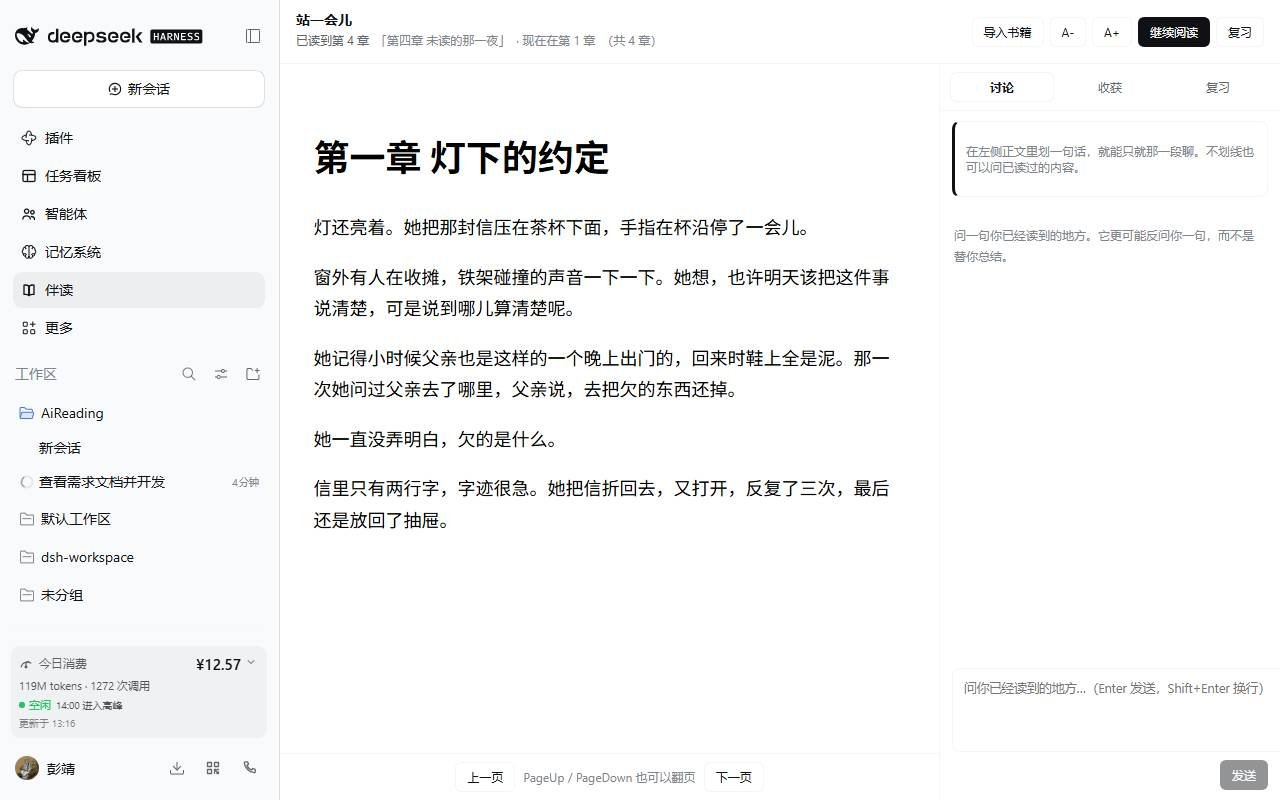
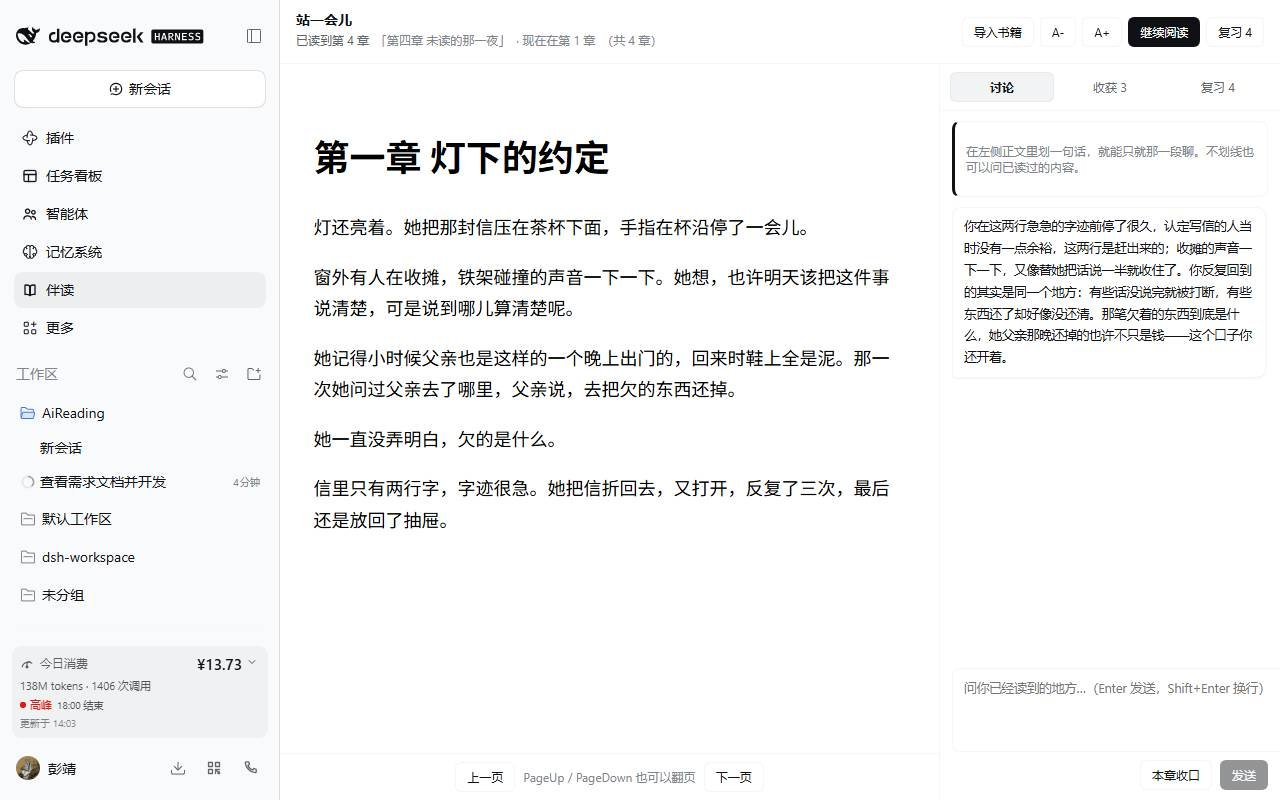
feat: ask without a selection falls back to the reader's chapter

diff --git a/src/host/routes.js b/src/host/routes.js
@@ -293,20 +293,25 @@ export function registerRoutes(deps) {
           sectionIndex: typeof body?.sectionIndex === 'number' ? body.sectionIndex : null,
           quote: typeof body?.quote === 'string' ? body.quote : null,
         }
+        // No selection (just "ask about where I am") is a normal case: the UI says
+        // 不划线也可以问已读过的内容. Center the window on the reader's current chapter
+        // instead of on nothing — an empty target would fail closed and look like a bug.
+        const anchored = Boolean(selection.cfi) || typeof selection.sectionIndex === 'number'
+        const target = anchored
+          ? { cfi: selection.cfi, sectionIndex: selection.sectionIndex }
+          : { cfi: null, sectionIndex: progress?.positionSectionIndex ?? 0 }
         // Hard gate BEFORE any text is assembled: an unread anchor is refused here.
         // It runs before the model-route check on purpose — the refusal must not
         // depend on whether a model happens to be available.
-        if (selection.cfi || typeof selection.sectionIndex === 'number') {
-          requireReadable({ cfi: selection.cfi, sectionIndex: selection.sectionIndex }, progress, { what: '就这段原文讨论' })
-        }
+        requireReadable(target, progress, { what: '就这段原文讨论' })
 
         const route = resolveRoute(ctx, config, null)
         if (!route) return sendJson(res, 503, { ok: false, error: '这个会话没有可用的模型路由，暂时无法对话。复习和笔记不受影响。' })
 
         const window = await selectionWindow(library, bookId, progress, {
-          cfi: selection.cfi,
-          sectionIndex: selection.sectionIndex,
-          quote: selection.quote,
+          cfi: anchored ? selection.cfi : null,
+          sectionIndex: target.sectionIndex,
+          quote: anchored ? selection.quote : null,
           before: config.windowChars ?? 300,
           after: config.windowChars ?? 300,
         }).catch((error) => {

diff --git a/lib/index.js b/lib/index.js
@@ -2741,15 +2741,15 @@ function registerRoutes(deps) {
           sectionIndex: typeof body?.sectionIndex === "number" ? body.sectionIndex : null,
           quote: typeof body?.quote === "string" ? body.quote : null
         };
-        if (selection.cfi || typeof selection.sectionIndex === "number") {
-          requireReadable({ cfi: selection.cfi, sectionIndex: selection.sectionIndex }, progress, { what: "\u5C31\u8FD9\u6BB5\u539F\u6587\u8BA8\u8BBA" });
-        }
+        const anchored = Boolean(selection.cfi) || typeof selection.sectionIndex === "number";
+        const target = anchored ? { cfi: selection.cfi, sectionIndex: selection.sectionIndex } : { cfi: null, sectionIndex: progress?.positionSectionIndex ?? 0 };
+        requireReadable(target, progress, { what: "\u5C31\u8FD9\u6BB5\u539F\u6587\u8BA8\u8BBA" });
         const route = resolveRoute(ctx, config, null);
         if (!route) return sendJson(res, 503, { ok: false, error: "\u8FD9\u4E2A\u4F1A\u8BDD\u6CA1\u6709\u53EF\u7528\u7684\u6A21\u578B\u8DEF\u7531\uFF0C\u6682\u65F6\u65E0\u6CD5\u5BF9\u8BDD\u3002\u590D\u4E60\u548C\u7B14\u8BB0\u4E0D\u53D7\u5F71\u54CD\u3002" });
         const window = await selectionWindow(library, bookId, progress, {
-          cfi: selection.cfi,
-          sectionIndex: selection.sectionIndex,
-          quote: selection.quote,
+          cfi: anchored ? selection.cfi : null,
+          sectionIndex: target.sectionIndex,
+          quote: anchored ? selection.quote : null,
           before: config.windowChars ?? 300,
           after: config.windowChars ?? 300
         }).catch((error) => {

diff --git a/test/routes.test.js b/test/routes.test.js
@@ -96,6 +96,24 @@ test('routes: /note is refused for an unread cfi', async () => {
   assert.equal(res.statusCode, 403, `expected 403, got ${res.statusCode}: ${res.body}`)
 })
 
+test('routes: asking without a selection falls back to where the reader is', async () => {
+  // The panel advertises "不划线也可以问已读过的内容"; an empty anchor used to fail
+  // closed as unknownTarget, which read to the reader as a bug.
+  const { routes } = mount({ sectionIndex: 1, positionSectionIndex: 1, sectionCount: 4 })
+  const { req, res } = request('POST', '/__reading/ask', { question: '这一章说了什么？' })
+  await routes.handler(req, res)
+  assert.equal(res.statusCode, 503, `expected 503 (no model route), got ${res.statusCode}: ${res.body}`)
+  assert.match(res.body, /模型路由/)
+})
+
+test('routes: asking without a selection still fails closed when there is no progress', async () => {
+  const { routes } = mount(null)
+  const { req, res } = request('POST', '/__reading/ask', { question: '这一章说了什么？' })
+  await routes.handler(req, res)
+  assert.equal(res.statusCode, 403, `expected 403, got ${res.statusCode}: ${res.body}`)
+  assert.match(res.body, /进度门/)
+})
+
 test('tools: read_text_window refuses an unread section and never touches the library', async () => {
   const registered = []
   const ctx = { tools: { register(definition) { registered.push(definition); return () => {} } } }

diff --git a/lib/client.js b/lib/client.js
@@ -8119,6 +8119,7 @@ var CSS2 = `
 .drc-card:hover{border-color:var(--dsw-alias-border-l2);box-shadow:0 2px 8px rgb(0 0 0 / 5%)}
 .drc-card-due{border-color:var(--dsw-alias-brand-primary)}
 .drc-card-front{display:flex;align-items:flex-start;justify-content:space-between;gap:8px;background:transparent;border:none;color:inherit;padding:0;text-align:left;cursor:pointer;font-size:12.5px;line-height:1.7;font-weight:500}
+.drc-card-front > .drc-dim{flex:0 0 auto;white-space:nowrap}
 .drc-card-back{display:flex;flex-direction:column;gap:7px;border-top:1px dashed var(--dsw-alias-border-l2);padding-top:8px}
 .drc-card-text{margin:0;font-size:12.5px;line-height:1.75;word-break:break-word}
 .drc-rewrite{margin:0;font-size:12px;line-height:1.7;padding:7px 9px;border-radius:9px;background:var(--dsw-alias-bg-overlay);color:var(--dsw-alias-label-secondary);border:1px solid var(--dsw-alias-border-l1)}

diff --git a/src/client/index.jsx b/src/client/index.jsx
@@ -128,6 +128,7 @@ const CSS = `
 .drc-card:hover{border-color:var(--dsw-alias-border-l2);box-shadow:0 2px 8px rgb(0 0 0 / 5%)}
 .drc-card-due{border-color:var(--dsw-alias-brand-primary)}
 .drc-card-front{display:flex;align-items:flex-start;justify-content:space-between;gap:8px;background:transparent;border:none;color:inherit;padding:0;text-align:left;cursor:pointer;font-size:12.5px;line-height:1.7;font-weight:500}
+.drc-card-front > .drc-dim{flex:0 0 auto;white-space:nowrap}
 .drc-card-back{display:flex;flex-direction:column;gap:7px;border-top:1px dashed var(--dsw-alias-border-l2);padding-top:8px}
 .drc-card-text{margin:0;font-size:12.5px;line-height:1.75;word-break:break-word}
 .drc-rewrite{margin:0;font-size:12px;line-height:1.7;padding:7px 9px;border-radius:9px;background:var(--dsw-alias-bg-overlay);color:var(--dsw-alias-label-secondary);border:1px solid var(--dsw-alias-border-l1)}
